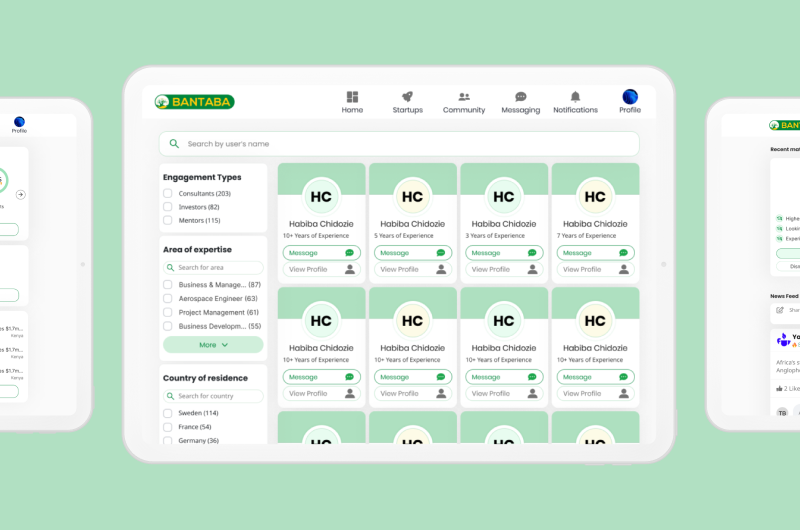
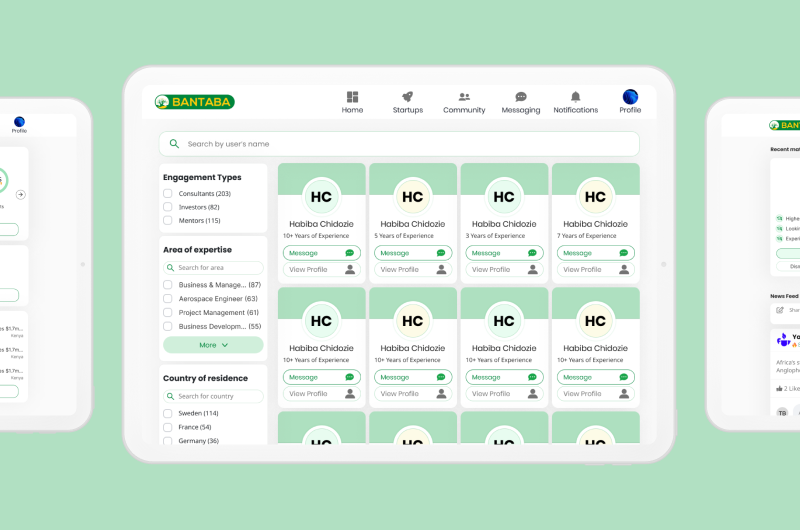
new bantaba

diff --git a/bantaba-platform.html b/bantaba-platform.html
@@ -52,7 +52,7 @@
                 href="index.html"
                 title="Kida"
               >
-                <!-- <img src="assets/images/logo.png" alt="Mogen"> -->Kida
+                <!-- <img src="assets/images/logo.png" alt="kida"> -->Kida
               </a>
 
               <!-- navbar-toggler -->
@@ -210,7 +210,7 @@
                     class="w-100 rounded"
                     loading="lazy"
                     src="assets/images/projects/Bantaba.png"
-                    alt="Mobile Mockups"
+                    alt="iPad Mockup of a page with diasporas you can contact"
                   />
                 </div>
               </div>
@@ -309,12 +309,13 @@
                       relevant.
                     </p>
                     <p>
-                      The reason I made personas is simply because I am not in
-                      our target group, and I thought personas could help with
-                      that. For instance, if I'm unsure about a feature, I could
-                      ask myself, "What's the value for Cheryl if we do [...]?".
-                      It ended up making things easier for me in the project as
-                      it helped make things less abstract.
+                      The reason I made personas is simply that I am not in our
+                      target group, and I thought personas could help me see
+                      things through a founder's eyes. For instance, if I'm
+                      unsure about a feature, I could ask myself, "What's the
+                      value for Cheryl if we do [...]?". It ended up making
+                      things easier for me in the project as it helped make
+                      things less abstract.
                     </p>
 
                     <h5><strong>PROBLEMS AND THEIR PRIORITIES</strong></h5>
@@ -375,7 +376,7 @@
                       loading="lazy"
                       src="assets/images/projects/BeforeAfter.png"
                     />
-                    <br/>
+                    <br />
                     <h5><strong>CONCLUSIONS</strong></h5>
                     <p>
                       The next step would be further testing of the prototype,
@@ -394,7 +395,7 @@
                       to further improve the UX, and that this is mostly
                       touching the tip of the iceberg. Getting a good UX is
                       different from improving the UX, though, and that’s
-                      something I need to keep in mind – I can’t solve all
+                      something I need to keep in mind. I can’t solve all
                       problems in one single project.
                     </p>
                   </div>
